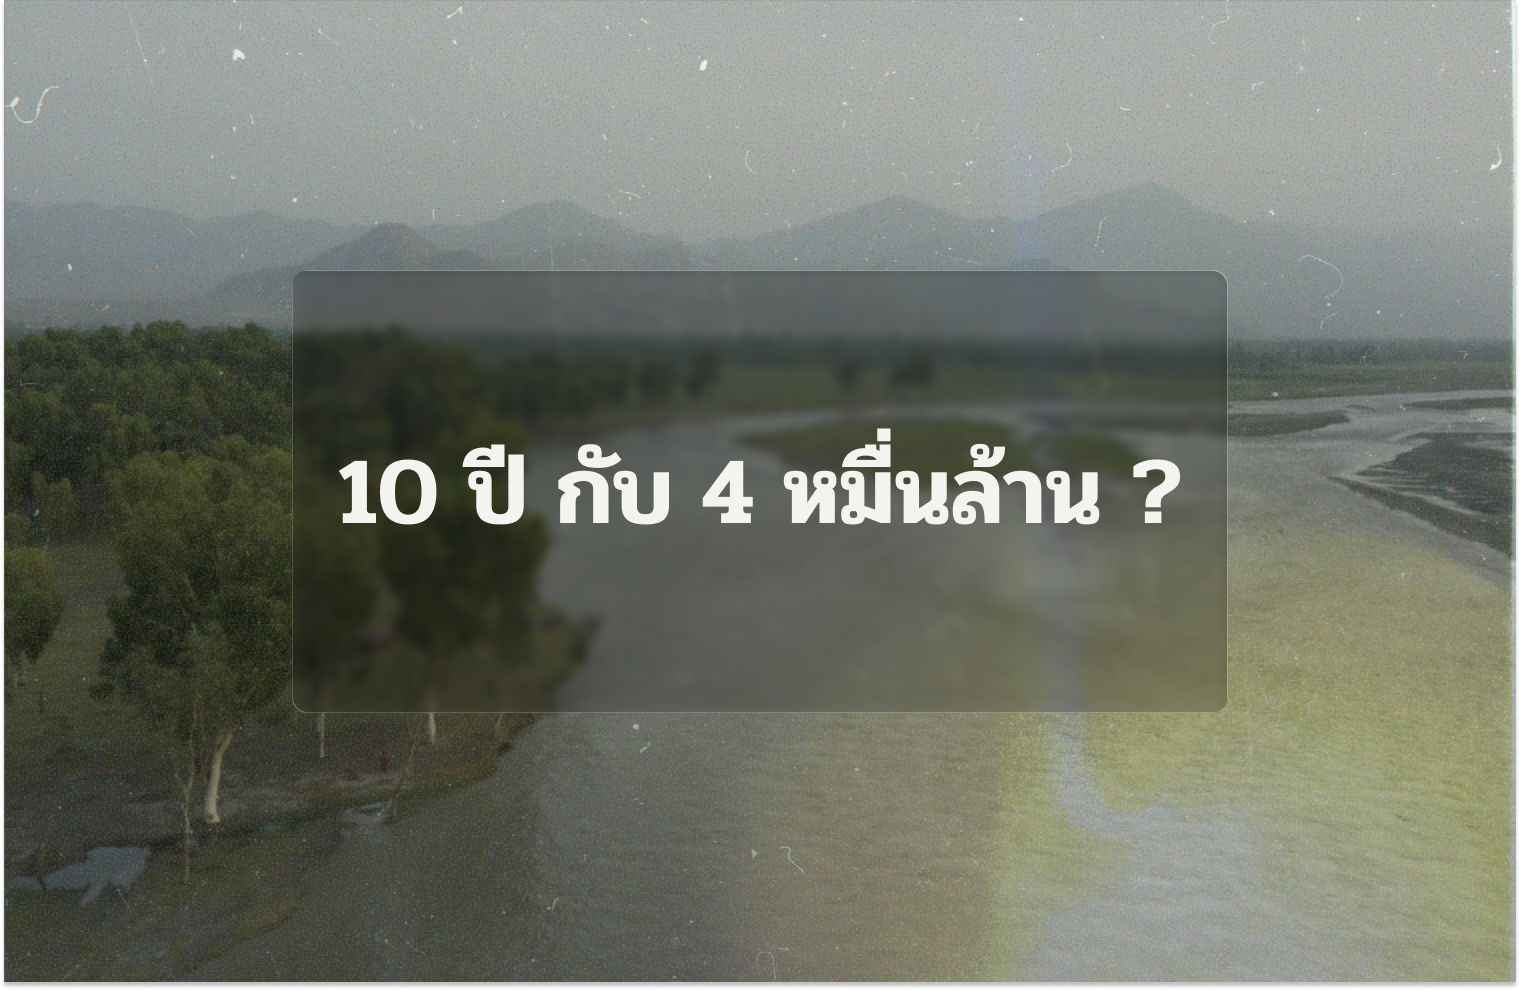
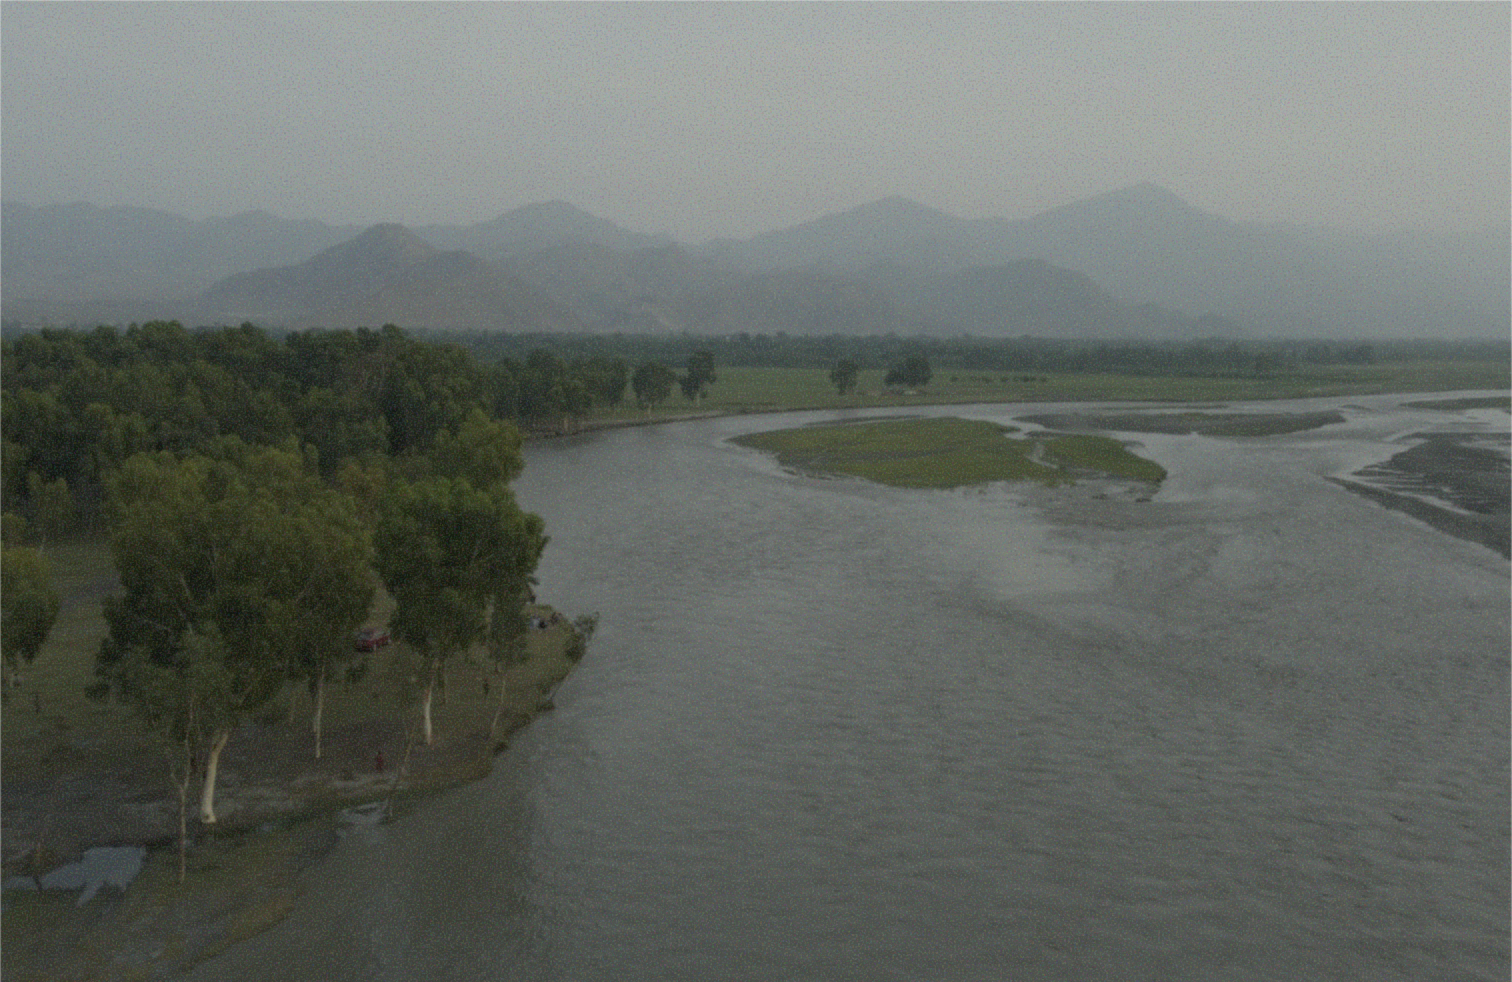
feat: Add Typewriter effect and new images to FourteenthSection component

diff --git a/components/fourteenth-section.tsx b/components/fourteenth-section.tsx
@@ -1,6 +1,26 @@
+import Image from "next/image";
+import { Typewriter } from "react-simple-typewriter";
+
 export default function FourteenthSection() {
 	return (
-		<section className="h-screen snap-start bg-[#171918] bg-[url('/images/old-image-mekong.png')] bg-cover bg-center text-white flex flex-col justify-center items-center">
+		<section className="relative h-screen snap-start bg-[#171918] bg-[url('/images/old-image-mekong.png')] bg-cover bg-center text-white flex justify-start items-end text-6xl font-bold font-ibm p-16">
+			<Image
+				src="/images/old-flash.png"
+				alt="Old image of Mekong River"
+				className="absolute inset-0 object-cover opacity-50 w-full h-full z-30"
+				width={1920}
+				height={1080}
+				priority
+			/>
+			<Typewriter
+				words={["10 ปี กับ 4 หมื่นล้าน"]}
+				loop={0}
+				cursor
+				cursorStyle="|"
+				typeSpeed={70}
+				deleteSpeed={50}
+				delaySpeed={1000}
+			></Typewriter>
 		</section>
 	);
 }
